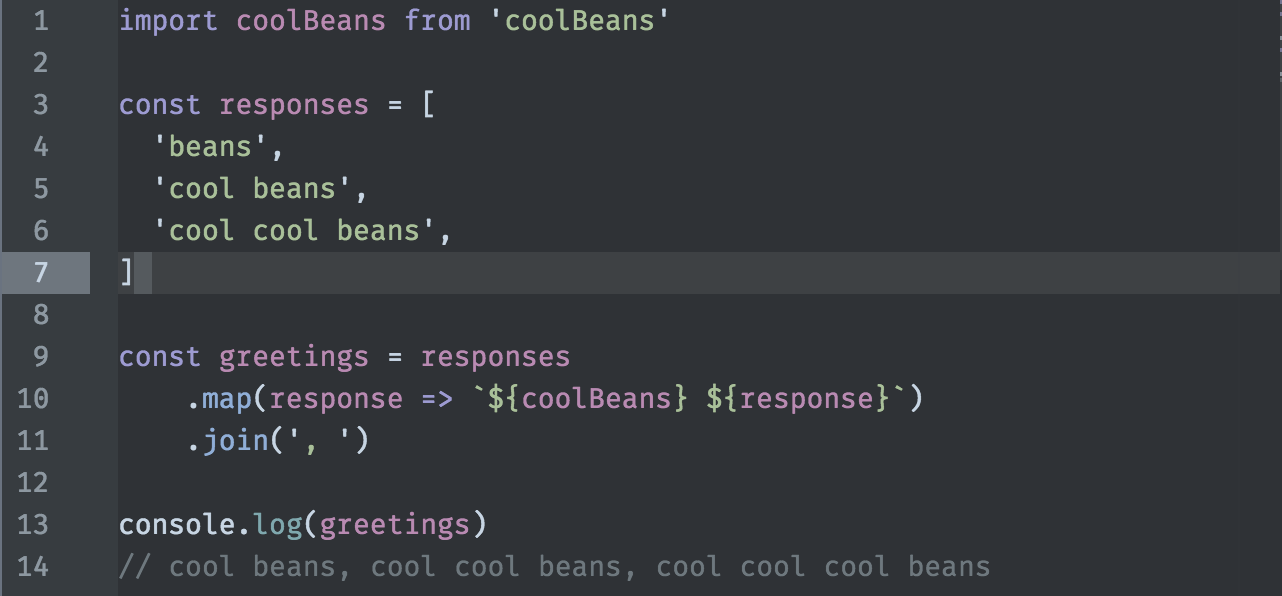
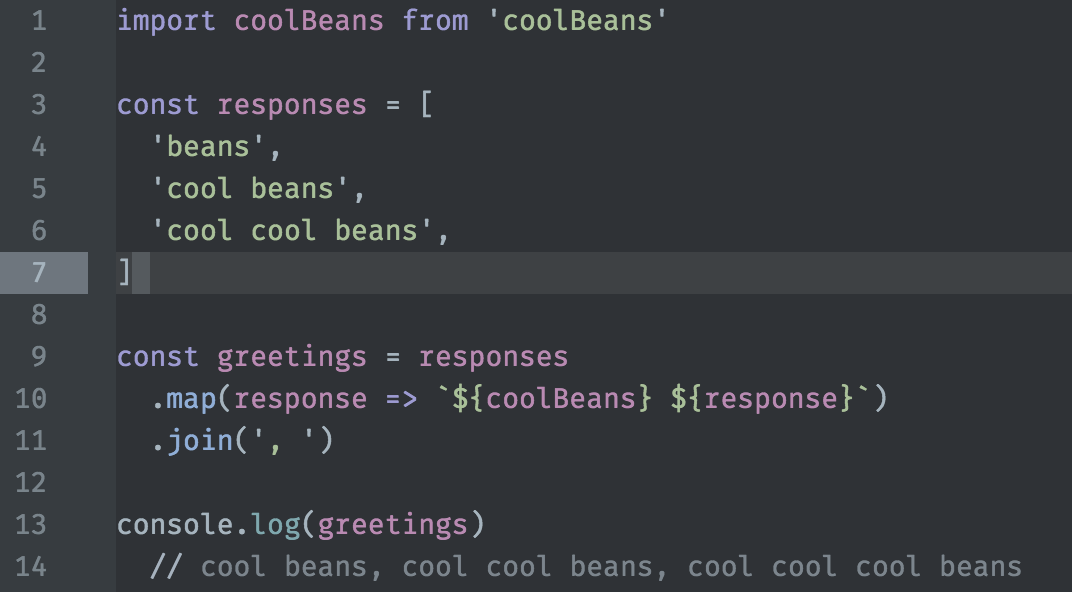
Update preview and light-grey

diff --git a/styles/colors.less b/styles/colors.less
@@ -1,7 +1,7 @@
 // These colors are specific to the theme. Do not use in a package!
 
 @very-light-gray: #A3B4BF;
-@light-gray: #A4B2BF;
+@light-gray: #646e75;
 @gray: #6D767F;
 @dark-gray: #363C40;
 @very-dark-gray: #2E3236;
